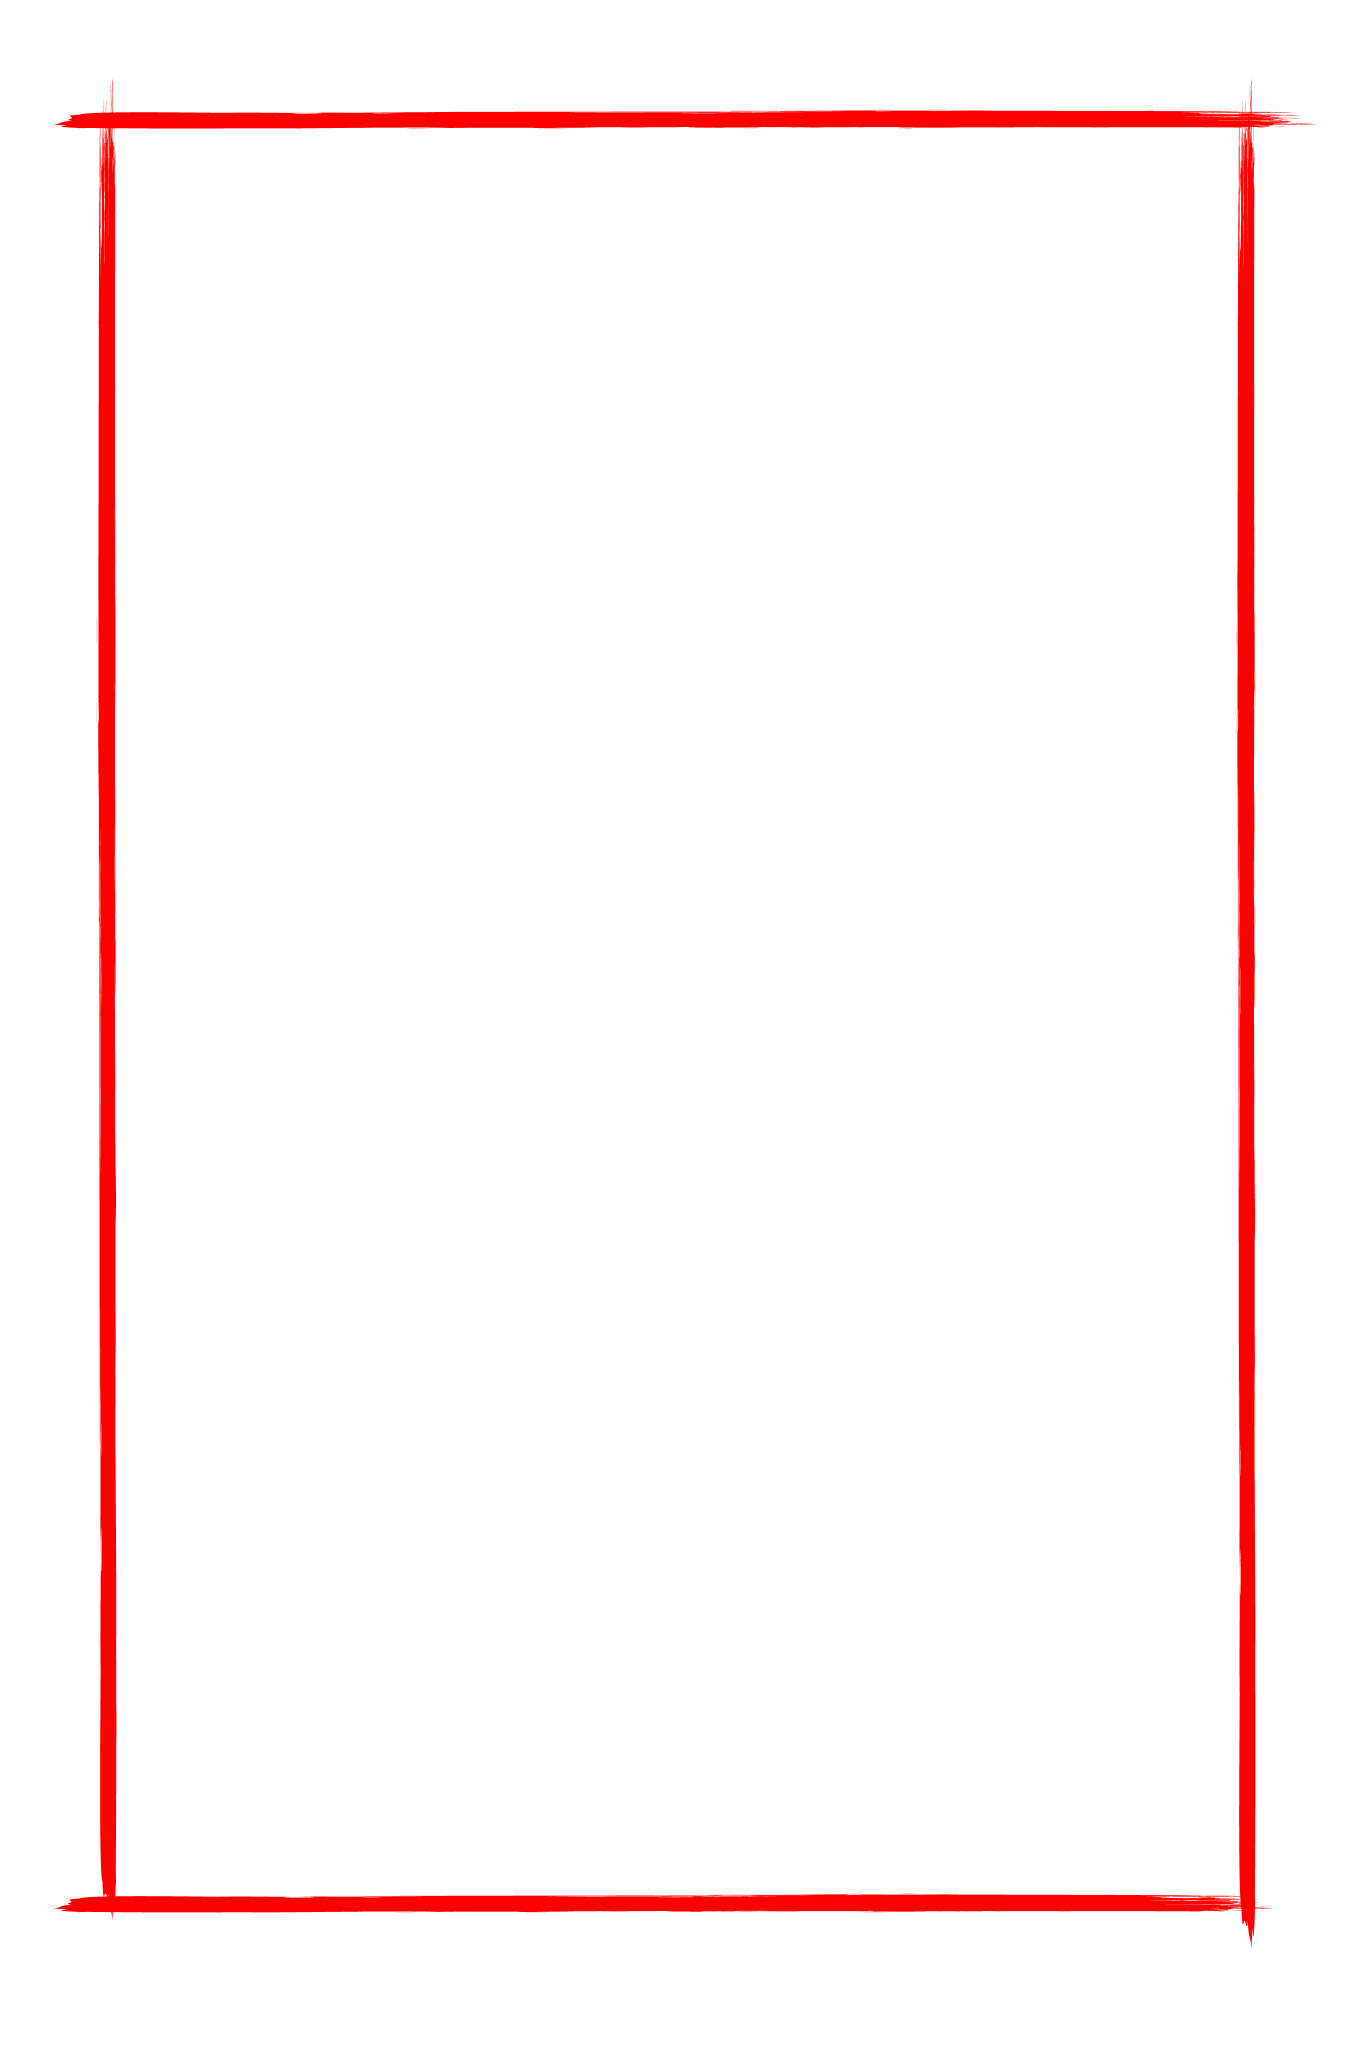
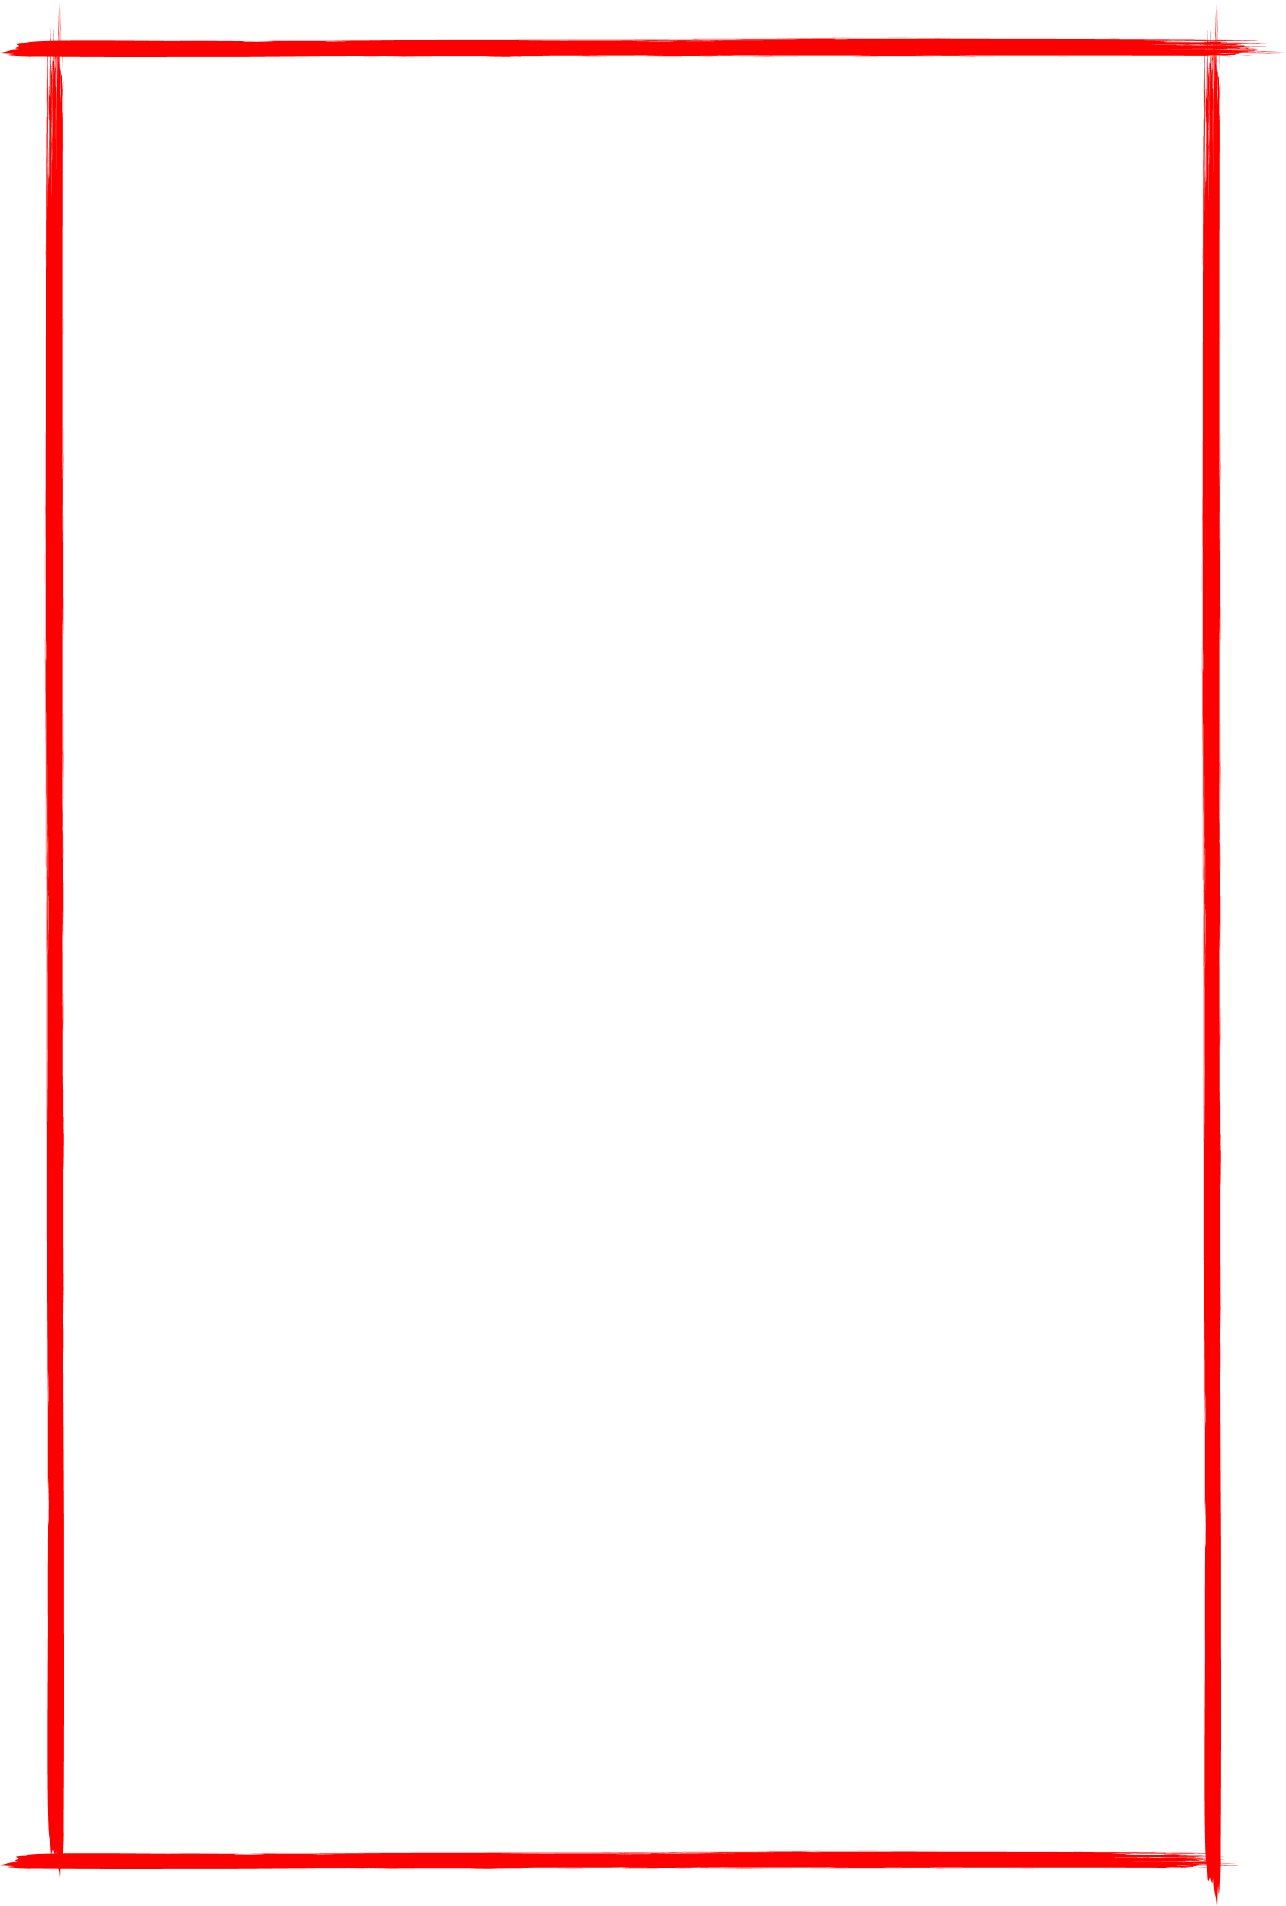
frame added

Changed region(s): [[0.0, 0.0, 0.9953, 0.9906]]

diff --git a/pages/home.vue b/pages/home.vue
@@ -45,6 +45,7 @@
           >
             <div class="image-container">
               <div class="image-section">
+                <img src="../assets/img/pen-frame-quadratisch-1.png" alt="Roter Rahmen um das Bild" class="frame"/>
                 <img :src="image.Link" :alt="image.Name" class="image-src" :class="image.Size" />
                 <span class="image-copy">{{ image.Copyright }}</span>
               </div>
@@ -90,6 +91,7 @@
             </div>
             <div class="flex image-container">
               <div class="image-section">
+                <img src="../assets/img/pen-frame-hochformat-1.png" alt="Roter Rahmen um das Bild" class="frame"/>
                 <img :src="image.Link" :alt="image.Name" class="image-src"/>
                 <span class="image-copy">{{ image.Copyright }}</span>
               </div>

diff --git a/pages/_Category.vue b/pages/_Category.vue
@@ -12,6 +12,8 @@
           v-if="image.Category.endsWith($route.params.Category)"
         >
           <section>
+            <img v-if="image.Size === 'small'" class="frame" src="../assets/img/pen-frame-hochformat-1.png" alt="Roter Rahmen um das Bild">
+            <img v-else class="frame" src="../assets/img/pen-frame-quadratisch-1.png" alt="Roter Rahmen um das Bild">
             <img
               :src="image.Link"
               :alt="image.Name"

diff --git a/assets/css/main.css b/assets/css/main.css
@@ -97,7 +97,7 @@ section.image {
   font-weight: 600;
 }
 
-.image-src:hover + .image-copy {
+.image-section:hover .image-copy {
   opacity: 1;
 }
 
@@ -177,12 +177,10 @@ section.image {
   transform: translateY(0.5rem);
 }
 
-/* img.medium::before {
-  content: "";
-  height: 100%;
-  width: 100%;
-  background: url(../img/pen-frame-quadratisch.png);
-} */
+img.frame {
+  height: 100vh;
+  position: absolute;
+}
 
 /* Category */
 .subpage {
